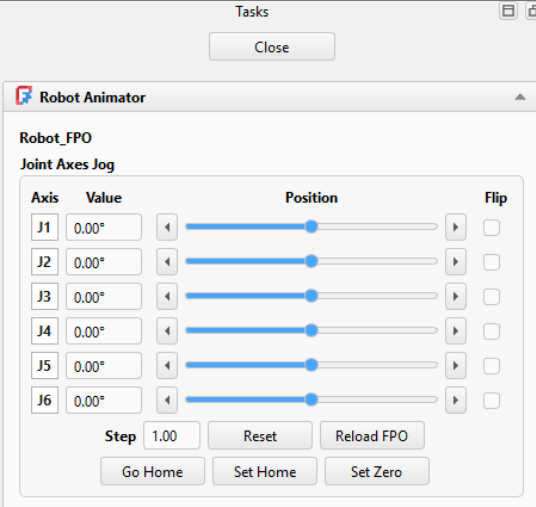
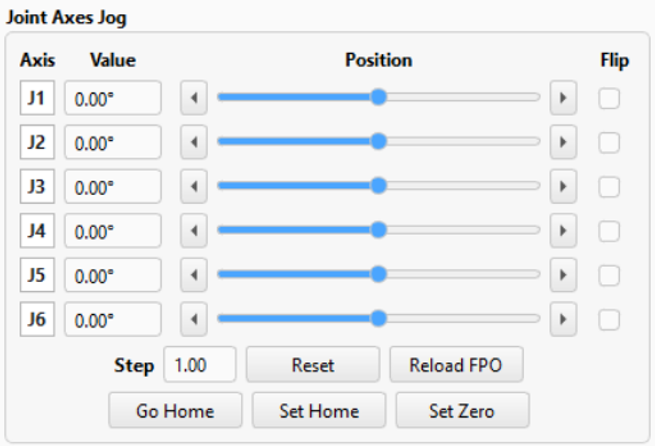
changed images and themes

diff --git a/assets/css/main.scss b/assets/css/main.scss
@@ -1,0 +1,43 @@
+---
+# Minimal Mistakes override stylesheet
+---
+
+@import "minimal-mistakes/skins/{{ site.minimal_mistakes_skin | default: 'default' }}";
+@import "minimal-mistakes";
+
+// Centered, rounded, softly-shadowed screenshots
+.page__content img {
+  display: block;
+  margin: 1.8rem auto;
+  max-width: 100%;
+  border-radius: 12px;
+  box-shadow: 0 3px 20px rgba(15, 23, 42, 0.16);
+}
+
+// Timeline table: centered and rounded
+.page__content table {
+  display: table;
+  width: auto;
+  min-width: 60%;
+  margin: 1.6rem auto;
+  border: 1px solid #eaeef2;
+  border-radius: 10px;
+  border-collapse: separate;
+  border-spacing: 0;
+  overflow: hidden;
+
+  th {
+    background: #f6f8fa;
+    border: none;
+    border-bottom: 1px solid #eaeef2;
+  }
+
+  td {
+    border: none;
+    border-bottom: 1px solid #eaeef2;
+  }
+
+  tr:last-child td {
+    border-bottom: none;
+  }
+}

diff --git a/_posts/2026-08-19-gsoc-2026-robotwb.md b/_posts/2026-08-19-gsoc-2026-robotwb.md
@@ -1,5 +1,4 @@
 ---
-layout: post
 title: "GSoC 2026: A Robot Simulation Workbench for FreeCAD"
 date: 2026-08-19
 permalink: /blogs/robotwb/gsoc-2026/
@@ -45,6 +44,14 @@ anywhere in the scene. Revolute and prismatic joints are supported as of now.
 
 ![Define Robot wizard](/assets/images/gsoc/define-robot.png)
 
+### Trajectories
+
+Waypoints can be taught and played back with point-to-point (PTP) and linear
+(LIN) motion types, and a trajectory player syncs playback across multiple
+robots.
+
+![Trajectory teaching](/assets/images/gsoc/trajectory.png)
+
 ### Animate Robot
 
 Per-joint sliders for forward-kinematic posing, with live joint-limit
@@ -65,13 +72,6 @@ backend; pinocchio, tesseract-robotics, and ikpy are optional alternatives.
 One panel to jog every robot in the document, which useful for cells with several
 robots working together.
 
-### Trajectories
-
-Waypoints can be taught and played back with point-to-point (PTP) and linear
-(LIN) motion types, and a trajectory player syncs playback across multiple
-robots.
-
-![Trajectory teaching](/assets/images/gsoc/trajectory.png)
 
 ### Scripting API
 
